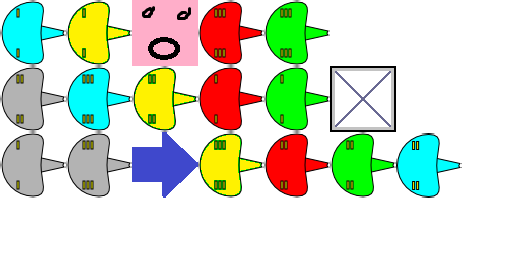
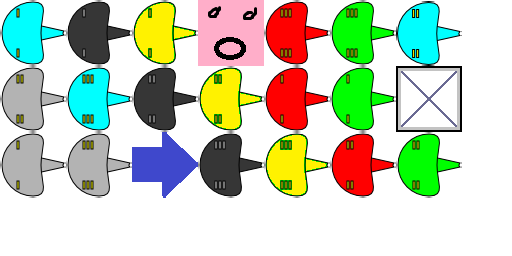
Cannon Tower, found CircleHitDetectionBug, GUI changes, soundeffect tweak, slow description

Changed region(s): [[0.125, 0.0, 0.9062, 0.7812]]

diff --git a/LibGDXScene2d/my-gdx-game/src/com/me/mygdxgame/MyGdxGame.java b/LibGDXScene2d/my-gdx-game/src/com/me/mygdxgame/MyGdxGame.java
@@ -239,9 +239,7 @@ public class MyGdxGame implements ApplicationListener
 			checkWave(totalTime);
 
 			gameProcessor.updateGame(totalTime, gameCamera, map, assetManager,
-					stage, hud, thinkTank.thinkTankInfo.nudgeChanceInGame,
-					assetManager.sounds.get("earthquake"),
-					assetManager.sounds.get("towerDestroyed"));
+					stage, hud, thinkTank.thinkTankInfo.nudgeChanceInGame);
 
 			if (gameProcessor.isGameLost())
 			{
@@ -546,10 +544,10 @@ public class MyGdxGame implements ApplicationListener
 				if (addEnemy.willDigg)
 				{
 					gameProcessor.diggerEnemies.add(addEnemy);
-					assetManager.sounds.get("diggerEnemy").play();
+					assetManager.playSound("diggerEnemy");
 				}
 				if (addEnemy.superFastEnemy || addEnemy.superInvisibleEnemy || addEnemy.superShieldedEnemy || addEnemy.superToughEnemy)
-					assetManager.sounds.get("superEnemy").play();
+					assetManager.playSound("superEnemy");
 				stage.addActor(addEnemy);
 				gameProcessor.enemies.add(gameProcessor.enemyWave
 						.get(gameProcessor.waveTime.get(0)));
@@ -591,7 +589,7 @@ public class MyGdxGame implements ApplicationListener
 						
 						if (canBuild)
 						{
-							assetManager.sounds.get("buildTower").play();
+							assetManager.playSound("buildTower");
 							gameProcessor.currentGold -= buildCost;
 							hud.goldButton.setText("        "
 									+ gameProcessor.currentGold);
@@ -604,17 +602,17 @@ public class MyGdxGame implements ApplicationListener
 						else
 						{
 							tower = null;
-							assetManager.sounds.get("maxedOut").play();
+							assetManager.playSound("maxedOut");
 						}
 						
 					}
 					else
 					{
-						assetManager.sounds.get("notEnoughMoney").play();
+						assetManager.playSound("notEnoughMoney");
 					}
 				}
 				else
-					assetManager.sounds.get("maxedOut").play();
+					assetManager.playSound("maxedOut");
 			}
 			else if (e.eventType.equals("sell"))
 			{
@@ -630,7 +628,7 @@ public class MyGdxGame implements ApplicationListener
 					{
 						if (tower.towerStats.upgradesTo.equals("null"))
 						{
-							assetManager.sounds.get("maxedOut").play();
+							assetManager.playSound("maxedOut");
 							hud.fadeInYellowBox(tower, gameProcessor
 									.selectTower(tower, thinkTank.towerInfo));
 							hud.updateCostLabels(tower);
@@ -642,7 +640,7 @@ public class MyGdxGame implements ApplicationListener
 									: false;
 							if (canAfford)
 							{
-								assetManager.sounds.get("upgradeTower").play();
+								assetManager.playSound("upgradeTower");
 								TowerStats newTowerStats = thinkTank.towerInfo
 										.get(tower.towerStats.upgradesTo);
 								tower.upgrade(
@@ -661,8 +659,7 @@ public class MyGdxGame implements ApplicationListener
 							}
 							else
 							{
-								assetManager.sounds.get("notEnoughMoney")
-										.play();
+								assetManager.playSound("notEnoughMoney");
 								hud.fadeInYellowBox(tower,
 										gameProcessor.selectTower(tower,
 												thinkTank.towerInfo));
@@ -691,7 +688,7 @@ public class MyGdxGame implements ApplicationListener
 								hud.goldButton.setText("        "
 										+ gameProcessor.currentGold);
 								tower.wall = true;
-								assetManager.sounds.get("upgradeTower").play();
+								assetManager.playSound("upgradeTower");
 								hud.fadeInYellowBox(tower,
 										gameProcessor.selectTower(tower,
 												thinkTank.towerInfo));
@@ -699,8 +696,7 @@ public class MyGdxGame implements ApplicationListener
 							}
 							else
 							{
-								assetManager.sounds.get("notEnoughMoney")
-										.play();
+								assetManager.playSound("notEnoughMoney");
 								hud.fadeInYellowBox(tower,
 										gameProcessor.selectTower(tower,
 												thinkTank.towerInfo));
@@ -709,7 +705,7 @@ public class MyGdxGame implements ApplicationListener
 						}
 						else
 						{
-							assetManager.sounds.get("maxedOut").play();
+							assetManager.playSound("maxedOut");
 							hud.fadeInYellowBox(tower, gameProcessor
 									.selectTower(tower, thinkTank.towerInfo));
 							hud.updateCostLabels(tower);

diff --git a/LibGDXScene2d/my-gdx-game/src/com/me/mygdxgame/GameProcessor.java b/LibGDXScene2d/my-gdx-game/src/com/me/mygdxgame/GameProcessor.java
@@ -11,7 +11,6 @@ import java.util.List;
 import java.util.Random;
 
 import com.badlogic.gdx.Gdx;
-import com.badlogic.gdx.audio.Sound;
 import com.badlogic.gdx.graphics.Camera;
 import com.badlogic.gdx.graphics.g2d.TextureAtlas;
 import com.badlogic.gdx.graphics.g2d.TextureRegion;
@@ -199,11 +198,11 @@ public class GameProcessor
 		Collections.sort(waveTime);
 	}
 
-	public void updateGame(float totalTime, Camera gameCamera, Map map, AssetManager assetManager, Stage stage, HeadsUpDisplay hud, float nudgeChanceConstant, Sound earthquakeSound, Sound towerDestroyedSound)
+	public void updateGame(float totalTime, Camera gameCamera, Map map, AssetManager assetManager, Stage stage, HeadsUpDisplay hud, float nudgeChanceConstant)
 	{
 		if (earthquakeEnabled && !isGameWon() && !isGameLost())
 		{
-			doEarthquake(gameCamera, map, nudgeChanceConstant, earthquakeSound);
+			doEarthquake(gameCamera, map, nudgeChanceConstant, assetManager);
 		}
 		
 		if (enemies.size() > 0)
@@ -216,7 +215,7 @@ public class GameProcessor
 					Missile m = towers.get(i).shoot();
 					if (m != null)
 					{
-						assetManager.sounds.get(towers.get(i).towerStats.shootSound).play();
+						assetManager.playSound(towers.get(i).towerStats.shootSound);
 						stage.addActor(m);
 						missiles.add(m);
 						m.setZIndex(towers.get(i).getZIndex() - 1);
@@ -232,7 +231,7 @@ public class GameProcessor
 				// If TargetStrategy.Single
 				if (missiles.get(i).effect.missileTarget.targetingStrategy == TargetingStrategy.Single)
 				{
-					assetManager.sounds.get(missiles.get(i).impactSound).play();
+					assetManager.playSound(missiles.get(i).impactSound);
 					Enemy targEnemy = ((TargetSingle) (missiles.get(i).effect.missileTarget)).targetEnemy;
 					if (targEnemy.superShieldedEnemy)
 						continue;
@@ -288,7 +287,7 @@ public class GameProcessor
 						}
 					})));
 					stage.addActor(visualEffectActor);
-					assetManager.sounds.get(missiles.get(i).impactSound).play();
+					assetManager.playSound(missiles.get(i).impactSound);
 
 				}
 				// ----------------------
@@ -394,7 +393,7 @@ public class GameProcessor
 					}
 					for (Tower tower : removeTowerList)
 					{
-						towerDestroyedSound.play();
+						assetManager.playSound("towerDestroyed");
 						towers.remove(tower);
 						tower.remove();
 					}
@@ -513,7 +512,7 @@ public class GameProcessor
 	}
 
 	private void doEarthquake(Camera gameCamera, Map map,
-			float nudgeChanceConstant, Sound earthquakeSound)
+			float nudgeChanceConstant, AssetManager assetManager)
 	{
 		// Earthquake functionality, can be moved wherever, just to test.
 		if (nudgeRemainingTime > 0)
@@ -638,7 +637,7 @@ public class GameProcessor
 				if (rand.nextDouble() < nudgeChanceConstant)
 				{
 					nudgeRemainingTime = 1.5f;
-					earthquakeSound.play();
+					assetManager.playSound("earthquake");
 				}
 				nudgeRandomizerTimer = nudgeRandomizerInterval;
 			}

diff --git a/LibGDXScene2d/my-gdx-game/src/com/me/mygdxgame/HeadsUpDisplay.java b/LibGDXScene2d/my-gdx-game/src/com/me/mygdxgame/HeadsUpDisplay.java
@@ -78,11 +78,15 @@ public class HeadsUpDisplay
 		consoleGroup.setTouchable(Touchable.disabled);
 		stage.addActor(yellowBoxGroup);
 
-		TextButton settingsButton = buttonGenerator.createButton(miscAtlas.createSprite("settingsButton"), font);
-		settingsButton.addListener(listenerGenerator.createCleanButtonListener());
-		settingsButton.setPosition(GameConstants.screenWidth - 2 * 64, GameConstants.screenHeight - 100);
-		stage.addActor(settingsButton);
+		TextButton resetButton = buttonGenerator.createButton(miscAtlas.createSprite("settingsButton"), font);
+		resetButton.addListener(listenerGenerator.createCleanButtonListener());
+		resetButton.setPosition(GameConstants.screenWidth - 1 * 64, GameConstants.screenHeight - 100);
+		stage.addActor(resetButton);
 
+		Label buttonInfoLabel = new Label("Tower choices", labelStyle);
+		buttonInfoLabel.setPosition(GameConstants.screenWidth - 5 * 64 + 32, GameConstants.screenHeight - 40);
+		stage.addActor(buttonInfoLabel);
+		
 		TextButton sellButton = buttonGenerator.createButton(miscAtlas.createSprite("sellTowerButton"), font);
 		sellButton.addListener(listenerGenerator.createSellButtonListener());
 		sellButton.setPosition(GameConstants.screenWidth - 3 * 64, GameConstants.screenHeight - 100);
@@ -90,7 +94,7 @@ public class HeadsUpDisplay
 
 		sellPriceLabel = new Label("", labelStyle);
 		sellPriceLabel.setVisible(true);
-		sellPriceLabel.setPosition(sellButton.getX(), sellButton.getY() - sellButton.getHeight()/9);
+		sellPriceLabel.setPosition(sellButton.getX(), sellButton.getY() - sellButton.getHeight()/5);
 		sellPriceLabel.setText("");
 		stage.addActor(sellPriceLabel);
 		
@@ -101,7 +105,7 @@ public class HeadsUpDisplay
 
 		upgradeCostLabel = new Label("", labelStyle);
 		upgradeCostLabel.setVisible(true);
-		upgradeCostLabel.setPosition(upgradeButton.getX(), upgradeButton.getY() - upgradeButton.getHeight()/9);
+		upgradeCostLabel.setPosition(upgradeButton.getX(), upgradeButton.getY() - upgradeButton.getHeight()/5);
 		upgradeCostLabel.setText("");
 		stage.addActor(upgradeCostLabel);
 		
@@ -112,7 +116,7 @@ public class HeadsUpDisplay
 		
 		wallCostLabel = new Label("", labelStyle);
 		wallCostLabel.setVisible(true);
-		wallCostLabel.setPosition(wallButton.getX(), wallButton.getY() - wallButton.getHeight()/9);
+		wallCostLabel.setPosition(wallButton.getX(), wallButton.getY() - wallButton.getHeight()/5);
 		wallCostLabel.setText("");
 		stage.addActor(wallCostLabel);
 		

diff --git a/LibGDXScene2d/my-gdx-game/src/com/me/mygdxgame/HitDetector.java b/LibGDXScene2d/my-gdx-game/src/com/me/mygdxgame/HitDetector.java
@@ -10,7 +10,7 @@ import com.badlogic.gdx.math.Vector2;
 
 public class HitDetector {
 
-	public static List<Enemy> getEnemiesInCircle(List<Enemy> enemies, int originX, int originY, int radius)
+	public static synchronized List<Enemy> getEnemiesInCircle(List<Enemy> enemies, int originX, int originY, int radius)
 	{
 		List<Enemy> intersectingEnemies = new ArrayList<Enemy>();
 		Circle circle = new Circle(originX, originY, radius);
@@ -23,7 +23,7 @@ public class HitDetector {
 		return intersectingEnemies;
 	}
 	
-	public static List<Enemy> getEnemiesOnLine(List<Enemy> enemies, Vector2 startPoint, Vector2 endPoint)
+	public static synchronized List<Enemy> getEnemiesOnLine(List<Enemy> enemies, Vector2 startPoint, Vector2 endPoint)
 	{
 		List<Enemy> intersectingEnemies = new ArrayList<Enemy>();
 		for (Enemy enemy : enemies)

diff --git a/LibGDXScene2d/my-gdx-game/src/com/me/mygdxgame/AssetManager.java b/LibGDXScene2d/my-gdx-game/src/com/me/mygdxgame/AssetManager.java
@@ -13,7 +13,7 @@ public class AssetManager
 {
 	BitmapFont font;
 	
-	HashMap<String, Sound> sounds = new HashMap<String, Sound>();
+	private HashMap<String, Sound> sounds = new HashMap<String, Sound>();
 	HashMap<Integer, Music> allMusic = new HashMap<Integer, Music>();
 	Music currentSong;
 	int currentTrack, totalTracks;
@@ -90,5 +90,11 @@ public class AssetManager
 		currentSong = allMusic.get(number);
 		currentSong.setVolume(0.5f);
 		currentSong.play();
+	}
+	public void playSound(String soundName)
+	{
+		Sound sound = sounds.get(soundName);
+		sound.stop();
+		sound.play();
 	}
 }

diff --git a/LibGDXScene2d/my-gdx-game/src/com/me/mygdxgame/ListenerGenerator.java b/LibGDXScene2d/my-gdx-game/src/com/me/mygdxgame/ListenerGenerator.java
@@ -41,7 +41,7 @@ public class ListenerGenerator
 					myGdxGame.gameProcessor.selectTower(null, myGdxGame.thinkTank.towerInfo);
 					myGdxGame.hud.yellowBoxLabel.setText("");
 					myGdxGame.hud.fadeOutYellowBox();
-					myGdxGame.assetManager.sounds.get("sellTower").play();
+					myGdxGame.assetManager.playSound("sellTower");
 				}
 				return true;
 			}
